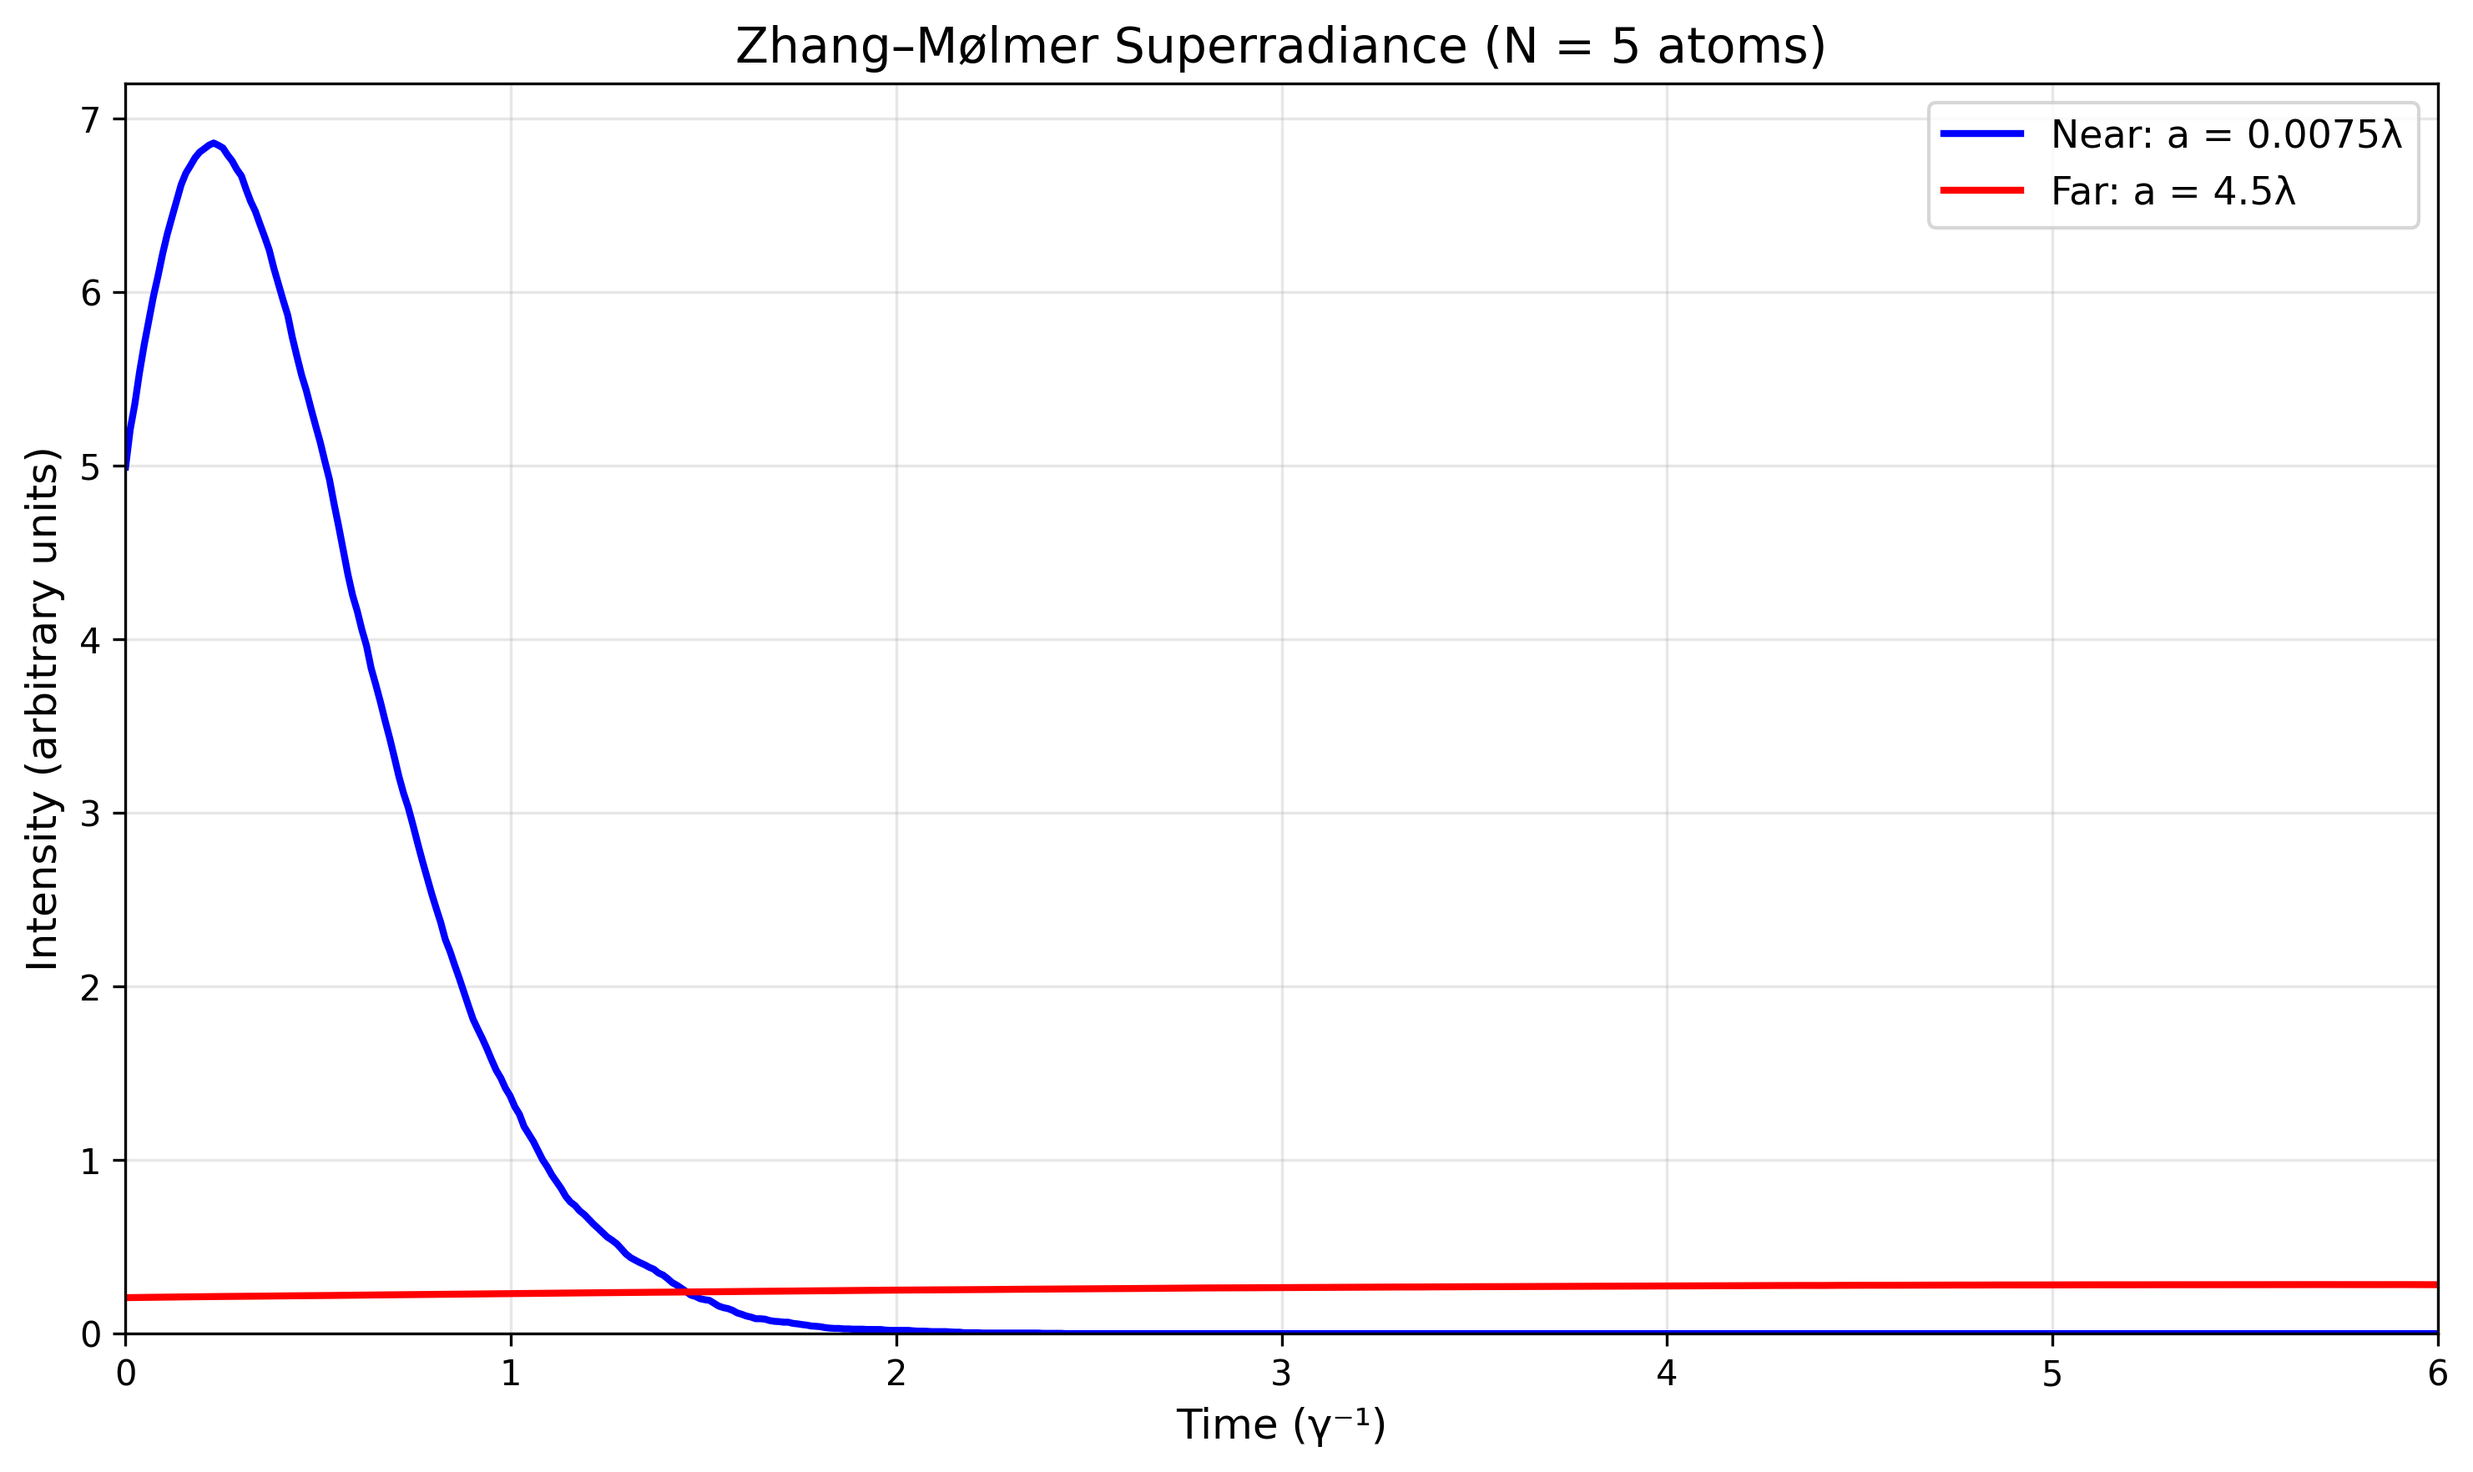
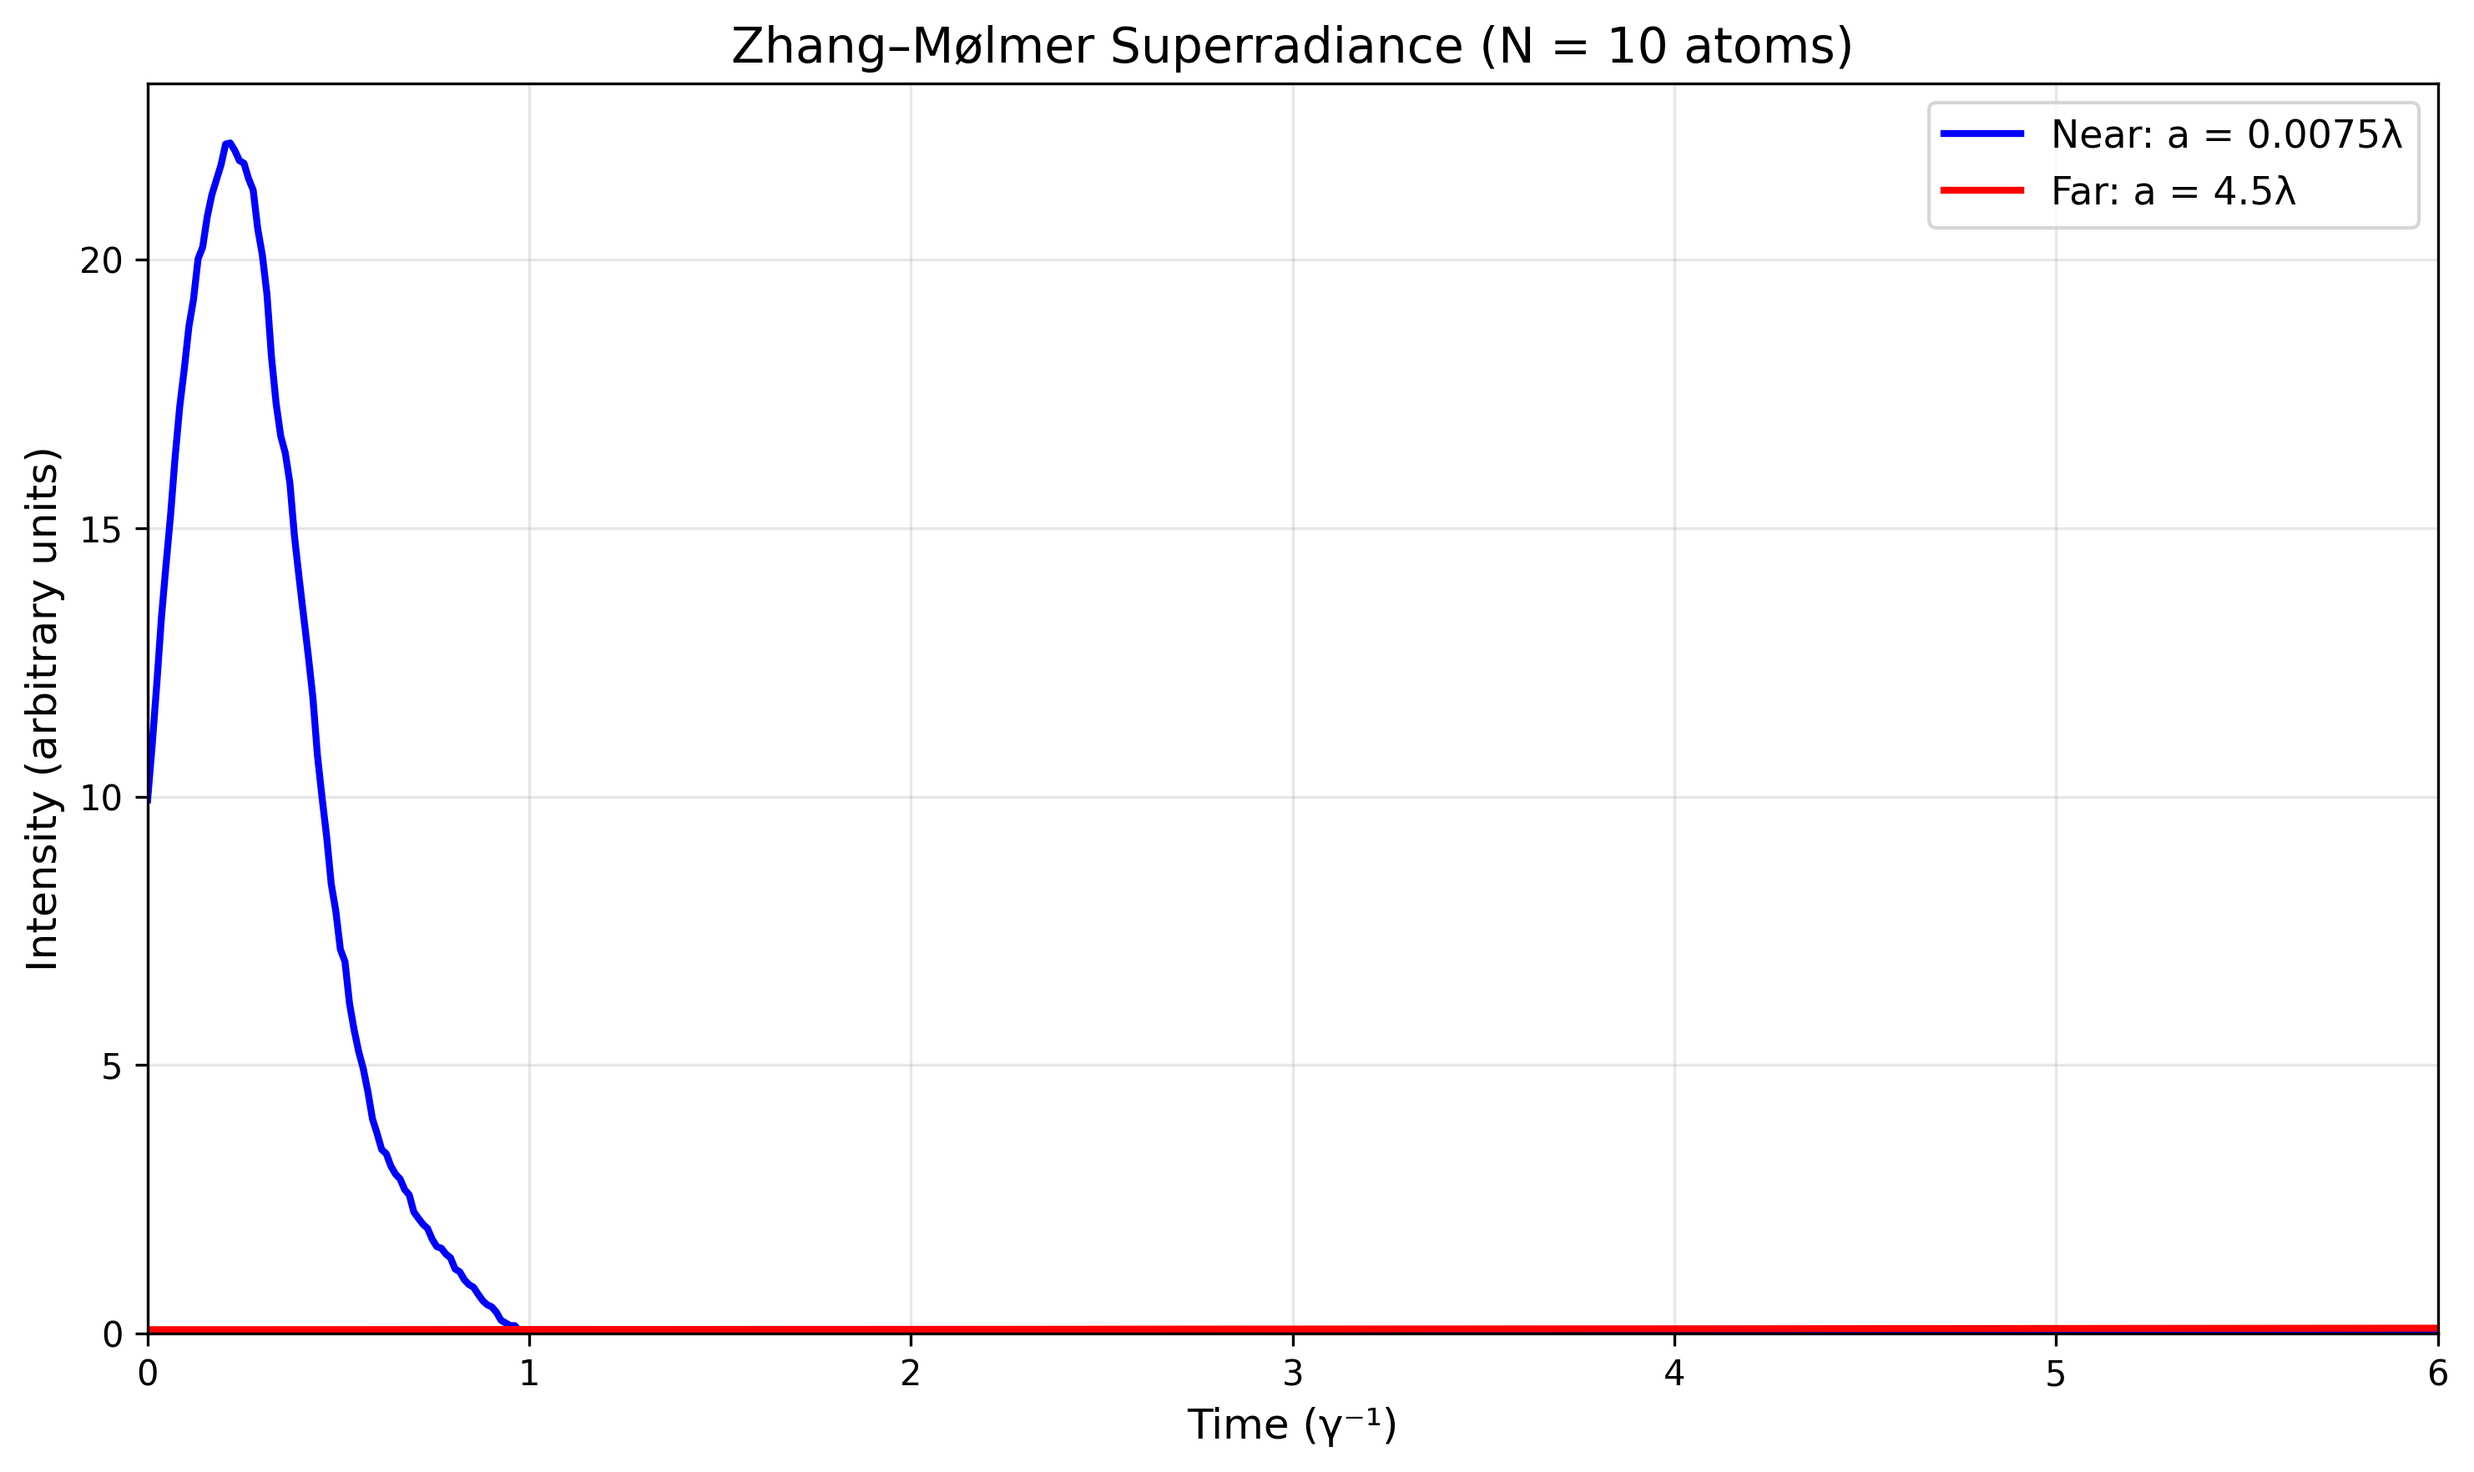
Update example 2 parameters for improved simulation accuracy and add new result images

diff --git a/superradiance/examples.py b/superradiance/examples.py
@@ -27,10 +27,10 @@ def example_2_custom_parameters():
     
     # Custom simulation with specific parameters
     results = simulate_superradiance(
-        N=5,                    # 6 atoms
+        N=10,                    # 10 atoms
         a_near=0.0075,         # Very close spacing
         a_far=4.5,             # Far spacing
-        ntraj=3000,             # 300 trajectories
+        ntraj=200,             # 200 trajectories
         tmax=6.0,              # 6 time units
         engine='optimized',    # Use optimized engine
         animate=False,         # Animated plot

diff --git a/superradiance/zhang_molmer_superradiance.py b/superradiance/zhang_molmer_superradiance.py
@@ -198,13 +198,13 @@ def ensemble_zm(N_atoms, positions, gamma0=1.0, k0=2*np.pi, n_modes=1,
 # -------------------------
 if __name__ == "__main__":
     # Parameters
-    N = 5
+    N = 10
     a = 0.0075    # spacing in units of lambda; small -> collective
     a_far = 4.5 # spacing larger -> weaker collectivity
-    gamma0 = .04
+    gamma0 = .01
     k0 = 2 * np.pi  # lambda = 1
     tmax = 6.0
-    ntraj = 3000
+    ntraj = 200
 
     print(f"Zhang-Mølmer Superradiance Simulation")
     print(f"N_atoms = {N}, tmax = {tmax}, ntraj = {ntraj}")
